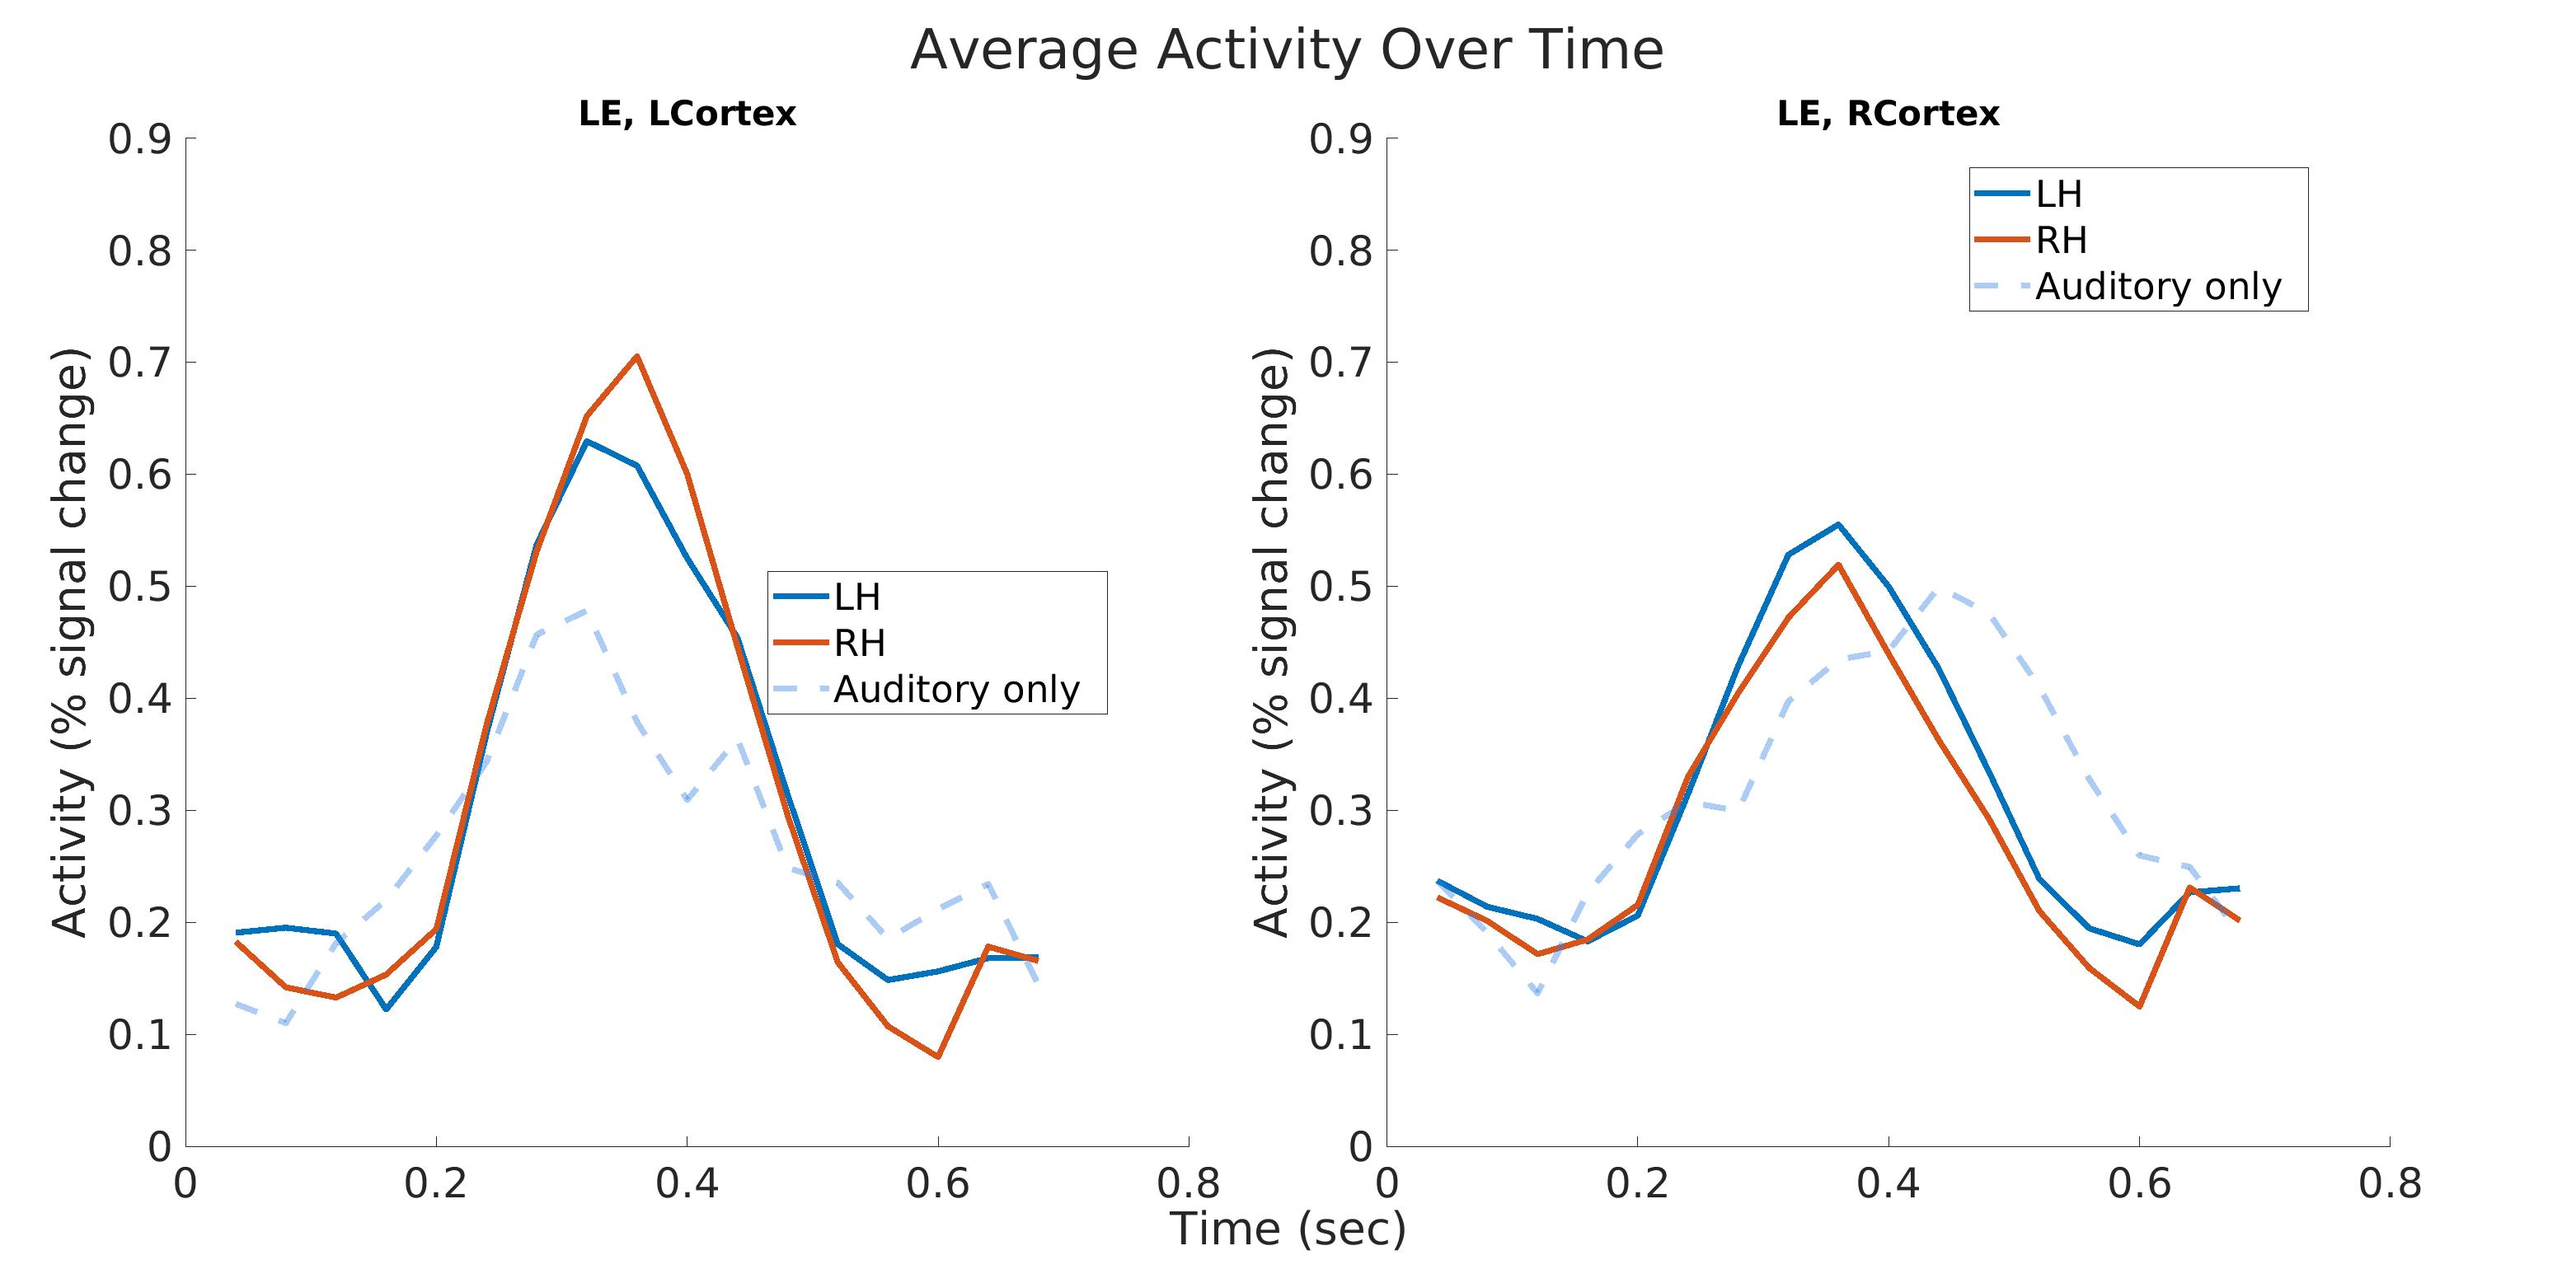
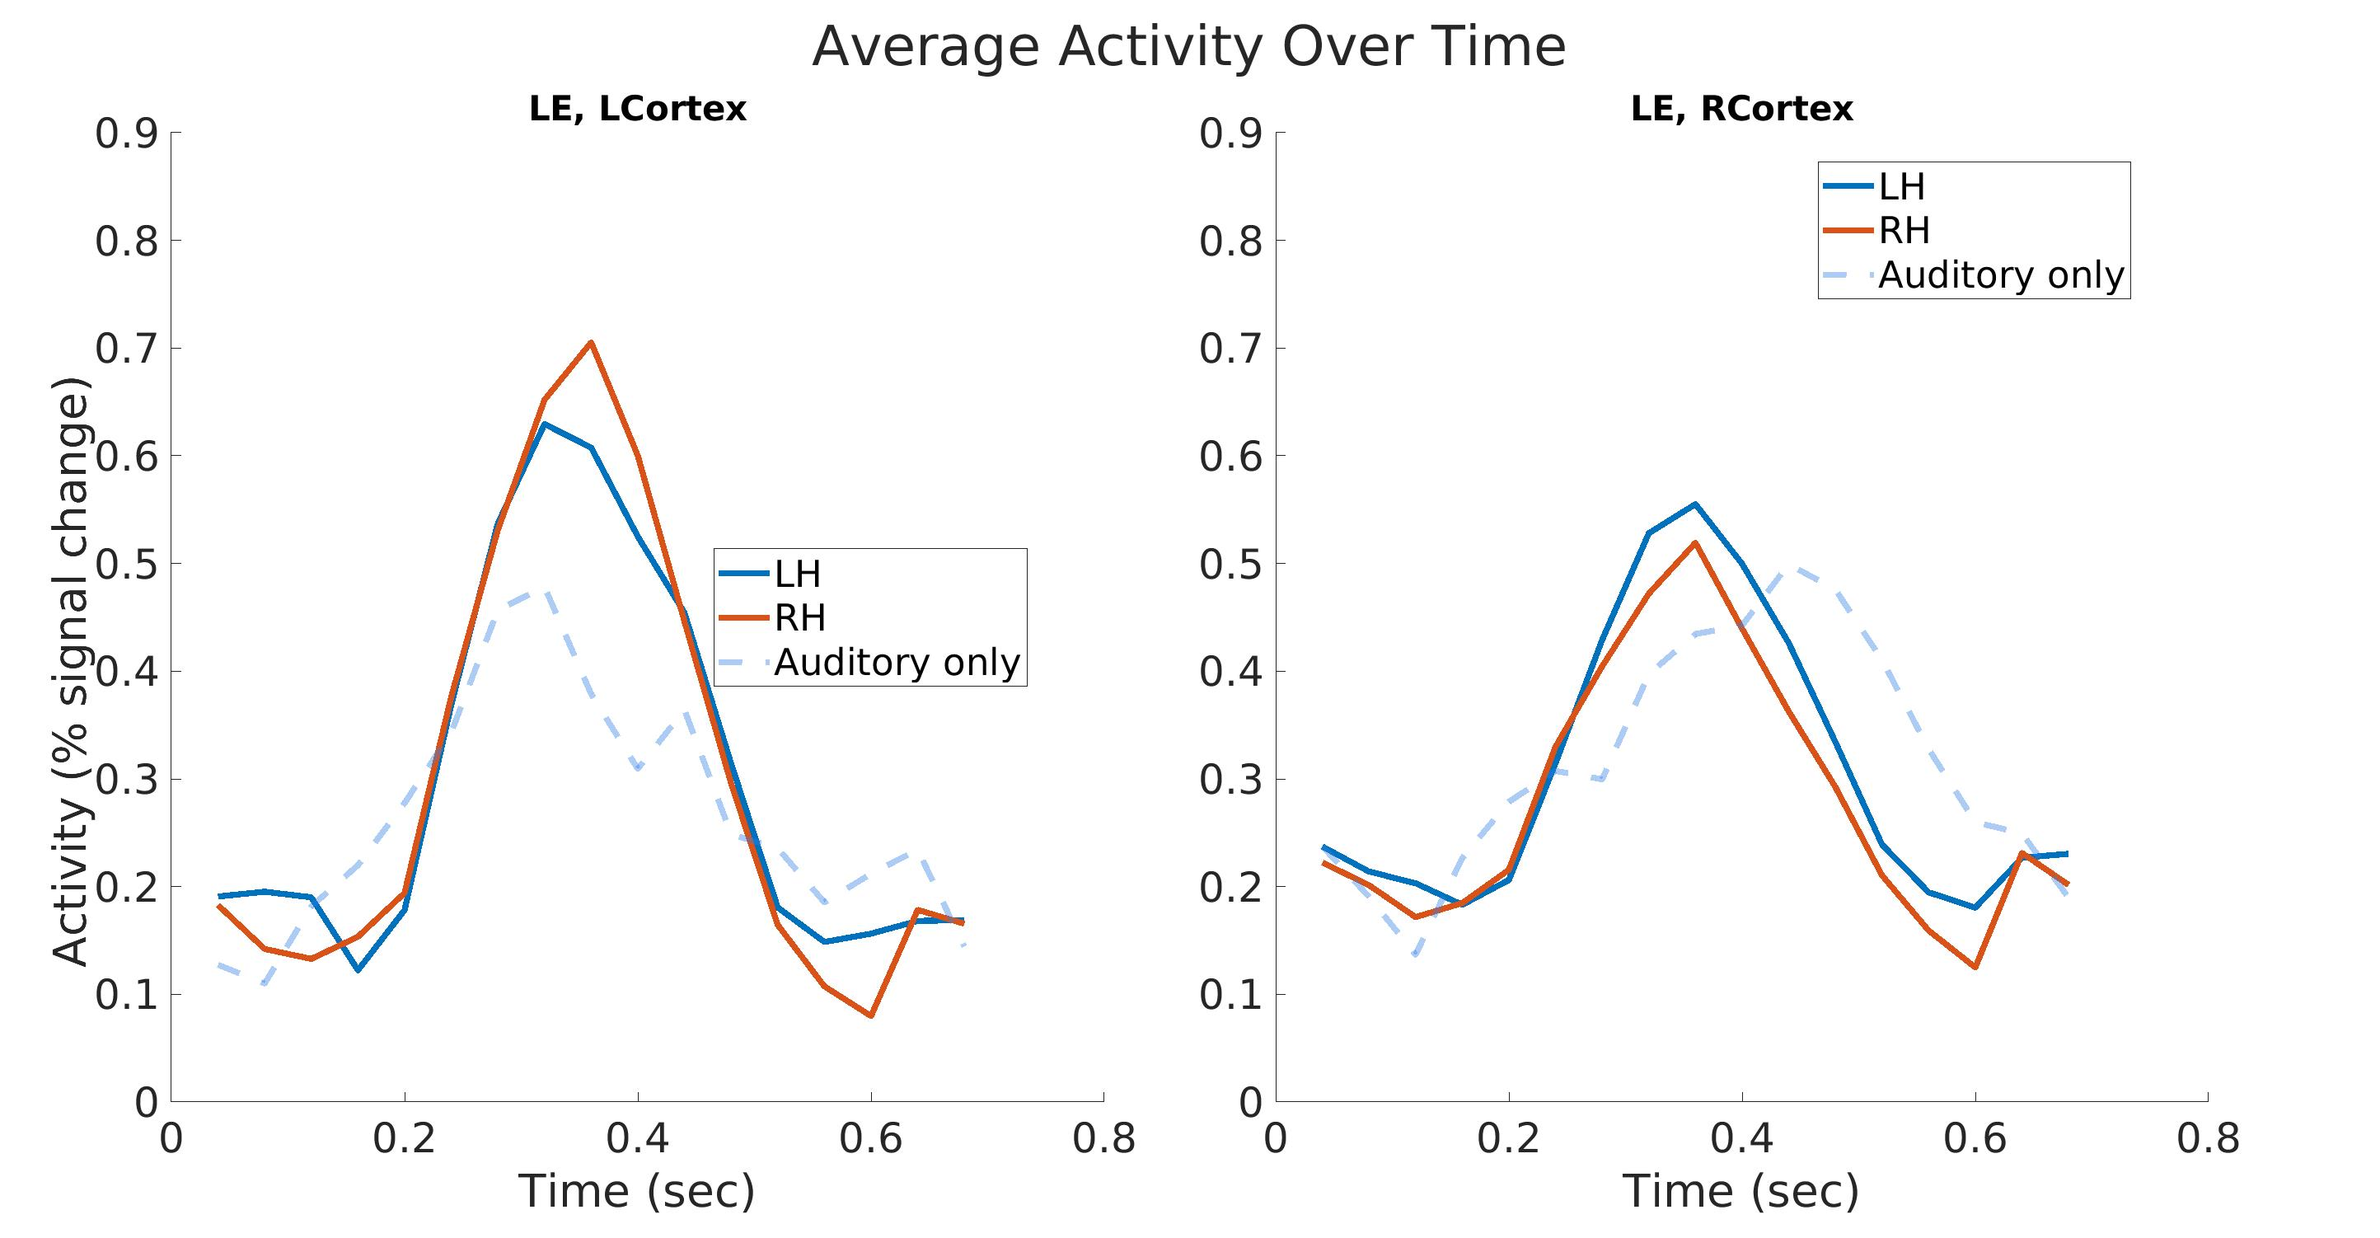
update figures dir (auto)

diff --git a/plotTimeCourseOnePlotSubplots.m b/plotTimeCourseOnePlotSubplots.m
@@ -46,19 +46,19 @@ function plotTimeCourseOnePlotSubplots()
             % Adding title and labels
             titleStr = sprintf("%s, %s", ear, cortex);
             title(titleStr, 'FontSize', subTitleFontsize);
-            if cortex == "LCortex"
-              hLabel = xlabel('Time (sec)');
+            xlabel('Time (sec)');
+            if cortex == "LCortex" 
+                hLabel = ylabel('Activity (% signal change)');
 
                 % Get current position of the ylabel
                 currentPosition = get(hLabel, 'Position');
 
                 % Increase the y-value to shift it upwards
-                newPosition = currentPosition + [12 0 0]; % Adjust the 0.1 as needed
+                newPosition = currentPosition + [0 0 0]; % Adjust the 0.1 as needed
 
                 % Set the new position of the ylabel
                 set(hLabel, 'Position', newPosition);
             end
-                ylabel('Activity (% signal change)');
             ylim([-0.3 0.6]);
             legend({'LH', 'RH', 'Auditory only'}, 'Location', 'best');
             hold off;
